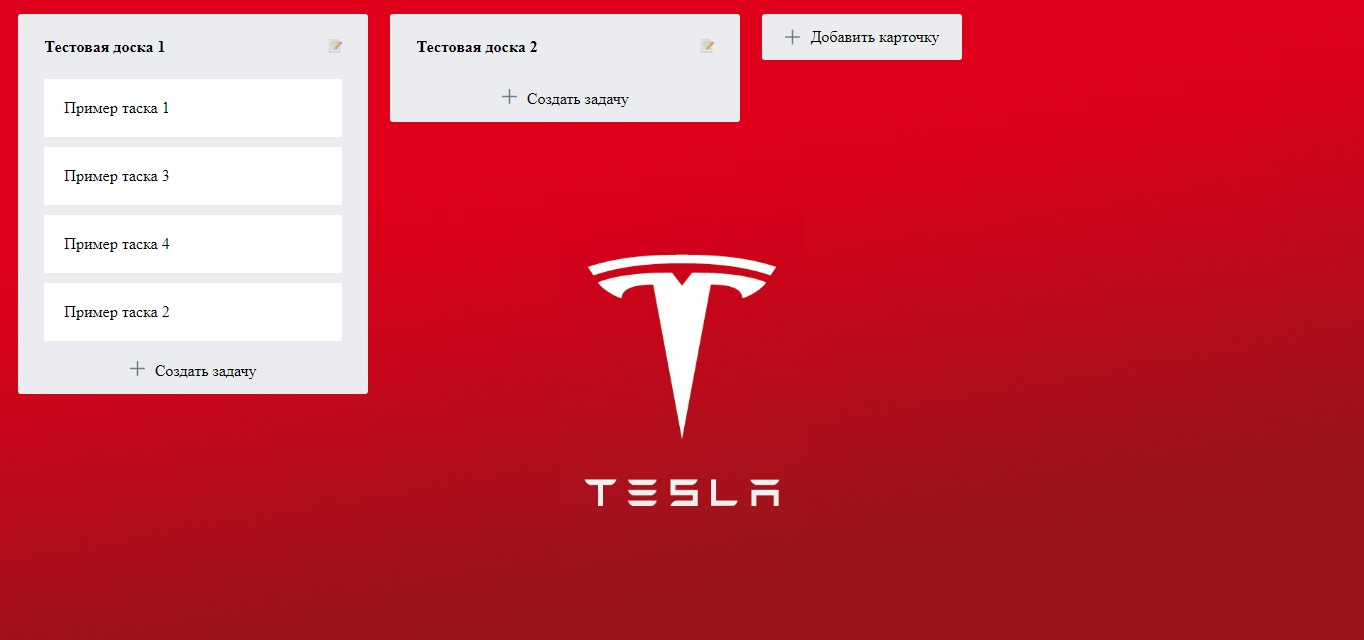
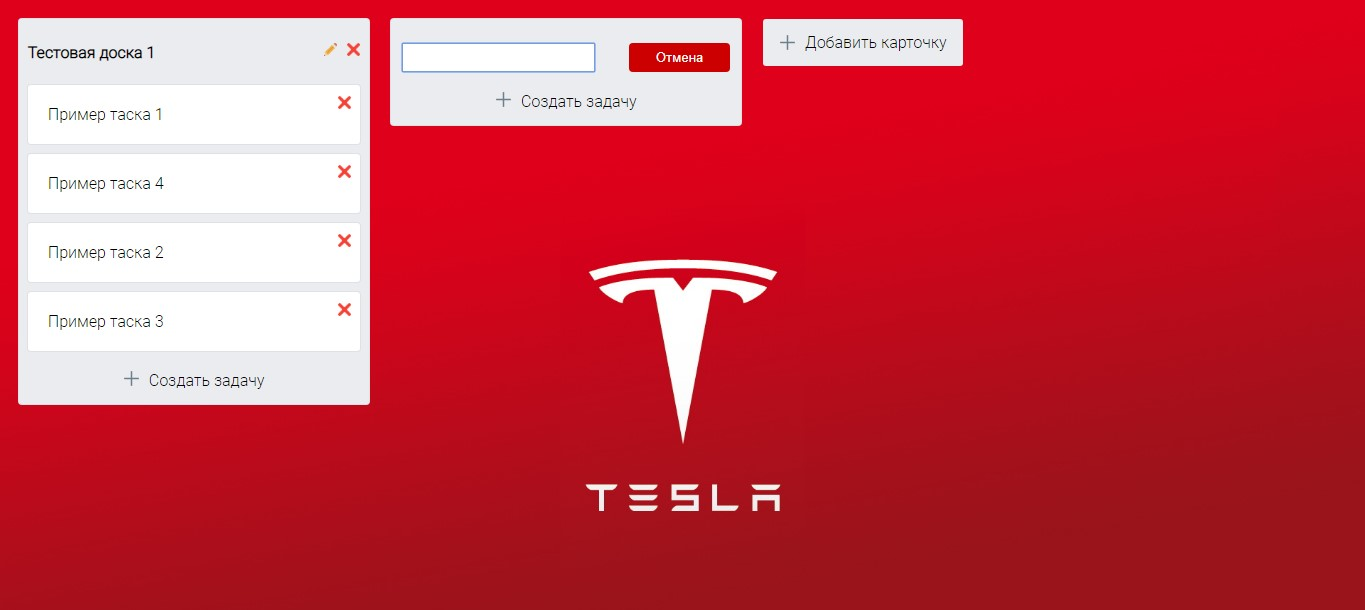
Обновил скриншот

diff --git a/toDo/src/redux/reducer.js b/toDo/src/redux/reducer.js
@@ -20,9 +20,7 @@ if (localStorage["redux-tesla-store"] === undefined) {
 }
 
 const reducer = (state = initialState, action) => {
-  // console.log(action)
   switch (action.type) {
-    
     case DELETE_CARD: 
       return {
         ...state,
@@ -85,19 +83,15 @@ const reducer = (state = initialState, action) => {
         item.tasks.forEach((item, i) => (i === state.selectedTaskPosition.position) && (task = item))
       );
       // Получаем task в виде строки, которуй мы хотим перенести
-
       return {
         ...state,
         items: state.items.map((item) => {
-
           // Если карточка одна и та же:
           if (state.selectedTaskPosition.cardId === action.cardId) {
             if (item.id === state.selectedTaskPosition.cardId) {
-          
-              let arr = item.tasks.filter((item, i) => i !== state.selectedTaskPosition.position);
-              let left = arr.filter((item, i) => i < action.position);
-              let right = arr.filter((item, i) => i >= action.position);
-
+              const arr = item.tasks.filter((item, i) => i !== state.selectedTaskPosition.position),
+                left = arr.filter((item, i) => i < action.position),
+                right = arr.filter((item, i) => i >= action.position);
               return {
                 ...item,
                 tasks: [...left, task, ...right]
@@ -112,13 +106,9 @@ const reducer = (state = initialState, action) => {
                 tasks: item.tasks.filter((item, i) => i !== state.selectedTaskPosition.position) 
               }
             }
- 
-
             if (item.id === action.cardId) {
-
-              let left = item.tasks.filter((item, i) => i < action.position);
-              let right = item.tasks.filter((item, i) => i >= action.position);
-              
+              const left = item.tasks.filter((item, i) => i < action.position),
+                right = item.tasks.filter((item, i) => i >= action.position);
               return {
                 ...item,
                 tasks: [...left, task, ...right]

diff --git a/toDo/src/components/Card/Card.js b/toDo/src/components/Card/Card.js
@@ -41,7 +41,7 @@ const Card = ({changeSelectedTaskAC, newTaskAC, createNextId, id, newTitleAC, ta
   }
 
   const titleModeCancel = () => {
-    setState({...state, modeTitle: false});
+    setState({...state, modeTitle: false, modeTitleValue: ""});
   }
 
   const titleModeChange = (e) => {
@@ -79,7 +79,7 @@ const Card = ({changeSelectedTaskAC, newTaskAC, createNextId, id, newTitleAC, ta
         </div> :
 
         <div className={style.appCardTitleMode}>
-          <input maxLength="15" value={state.modeTitleValue} onChange={titleModeChange} onKeyPress={titleModeChange} autoFocus/>
+          <input maxLength="16" value={state.modeTitleValue} onChange={titleModeChange} onKeyPress={titleModeChange} autoFocus/>
 
           <div>
             <button className={style.appCardTitleModeCancel} onClick={titleModeCancel}>Отмена</button>

diff --git a/toDo/src/components/Card/Card.module.css b/toDo/src/components/Card/Card.module.css
@@ -54,10 +54,13 @@
 	margin-left: 10px;
 	width: 13px;
 	height: 13px;
+	transition: 0.3s opacity ease-in-out;
 }
 
 .appCardSetting img:hover {
 	cursor: pointer;
+	opacity: 0.7;
+	transition: 0.3s opacity ease-in-out;
 }
 
 .appCardTaskItem {
